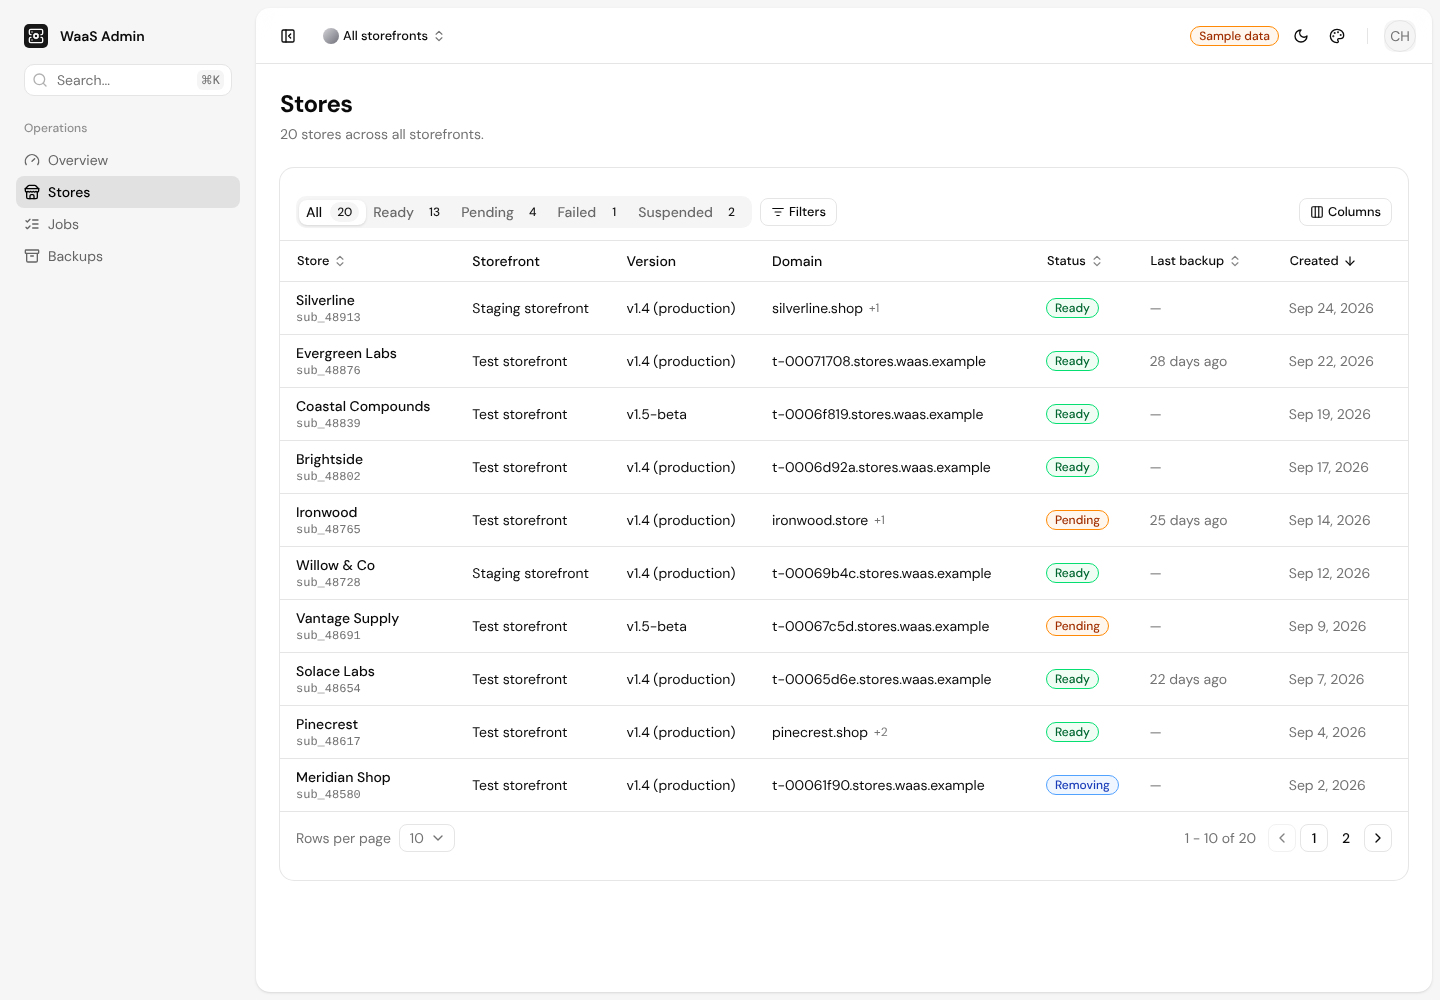
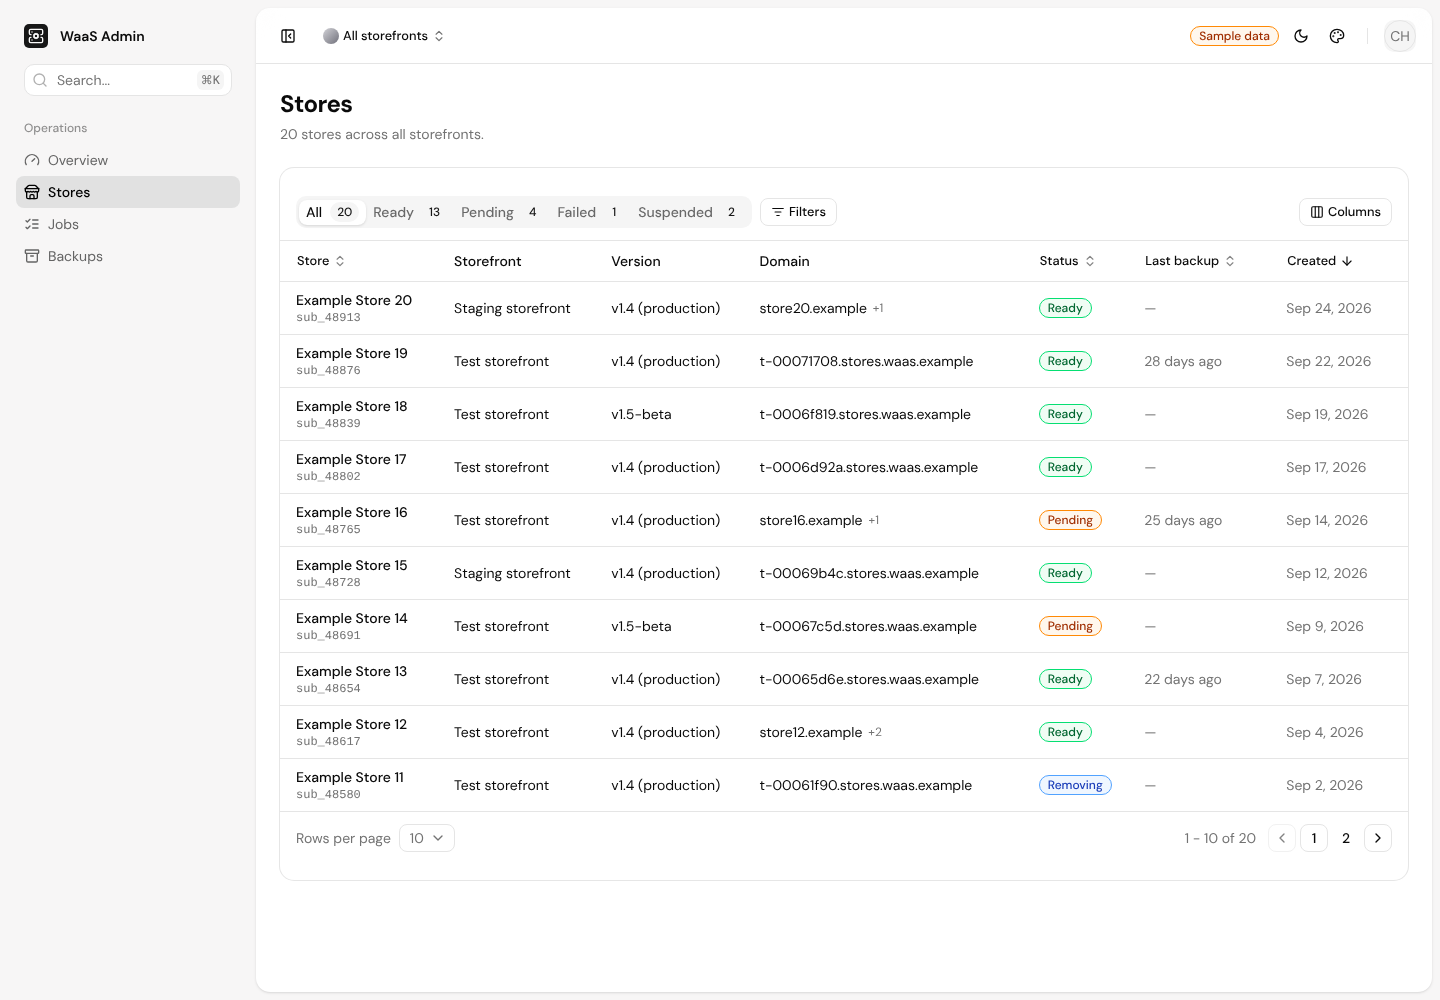
fix: neutral, obviously fictional sample data
Sample stores are "Example Store N" on reserved .example domains, the
template is "Starter template", and no sample name or domain resembles a
real business. Screenshots regenerated.

Claude-Session: https://claude.ai/code/session_01G9RGXizPQxC6Zsvd31FdxY

diff --git a/lib/api/fixtures.ts b/lib/api/fixtures.ts
@@ -45,36 +45,32 @@ const versions = [
   { id: uuid(3, 2), name: "v1.4 (production)", productId: products[1].id }
 ];
 
-const storeNames = [
-  "Northwind Labs", "Blue Harbor Supply", "Cedar Wellness", "Atlas Research", "Lumen Co",
-  "Harbor Point", "Summit Peptides", "Kestrel Bio", "Oakline Health", "Riverstone",
-  "Meridian Shop", "Pinecrest", "Solace Labs", "Vantage Supply", "Willow & Co",
-  "Ironwood", "Brightside", "Coastal Compounds", "Evergreen Labs", "Silverline"
-];
+// Obviously fictional names and reserved .example domains: sample data must never look like a real business.
+const storeNames = Array.from({ length: 20 }, (_, i) => `Example Store ${i + 1}`);
 
 type TenantSeed = { status: StatusCode; suspended?: boolean; custom?: string; extra?: string[] };
 
 const seeds: TenantSeed[] = [
-  { status: StatusCode.Done, custom: "shop.northwindlabs.com", extra: ["northwindlabs.com"] },
+  { status: StatusCode.Done, custom: "shop.store1.example", extra: ["store1.example"] },
   { status: StatusCode.Done },
-  { status: StatusCode.Done, custom: "cedarwellness.co" },
+  { status: StatusCode.Done, custom: "store3.example" },
   { status: StatusCode.Pending },
   { status: StatusCode.Done, suspended: true },
   { status: StatusCode.Failed },
-  { status: StatusCode.Done, custom: "harborpoint.store" },
+  { status: StatusCode.Done, custom: "store7.example" },
   { status: StatusCode.Done },
-  { status: StatusCode.Done, suspended: true, custom: "kestrelbio.com" },
+  { status: StatusCode.Done, suspended: true, custom: "store9.example" },
   { status: StatusCode.Done },
   { status: StatusCode.Removing },
-  { status: StatusCode.Done, custom: "pinecrest.shop", extra: ["www.pinecrest.shop"] },
+  { status: StatusCode.Done, custom: "store12.example", extra: ["www.store12.example"] },
   { status: StatusCode.Done },
   { status: StatusCode.Pending },
   { status: StatusCode.Done },
-  { status: StatusCode.Pending, custom: "ironwood.store" },
+  { status: StatusCode.Pending, custom: "store16.example" },
   { status: StatusCode.Done },
   { status: StatusCode.Done },
   { status: StatusCode.Done },
-  { status: StatusCode.Done, custom: "silverline.shop" }
+  { status: StatusCode.Done, custom: "store20.example" }
 ];
 
 type FixtureTenant = Tenant & {
@@ -138,8 +134,8 @@ tenants.forEach((tenant, i) => {
 });
 // Two backups of stores that have since been deleted, kept for restore until they expire.
 for (const [n, name, deletedDaysAgo] of [
-  [1, "Copperleaf Labs", 12],
-  [2, "Driftwood Supply", 81]
+  [1, "Example Store 21", 12],
+  [2, "Example Store 22", 81]
 ] as const) {
   const deletedAt = NOW - deletedDaysAgo * DAY;
   backups.push({
@@ -202,7 +198,7 @@ const jobs: Job[] = [
     error: "Provisioner: store host did not answer within 600 s (create container)"
   }),
   job(6, "failed", "tenant.domains", tenants[15], 40, {
-    error: "Provisioner: certificate request for ironwood.store rejected: DNS does not point at the store host"
+    error: "Provisioner: certificate request for store16.example rejected: DNS does not point at the store host"
   }),
   job(7, "failed", "tenant.backup", tenants[6], 2880, {
     error: "Provisioner: backup upload to object storage failed (403 AccessDenied)"
@@ -262,7 +258,7 @@ export class FixtureAdminApi implements AdminApi {
     if (!tenant) return null;
     return {
       ...tenant,
-      snapshotName: "Peptide shop starter",
+      snapshotName: "Starter template",
       wpOptionNames: ["blogname", "admin_email", "woocommerce_currency"],
       phpConstantNames: ["WPCS_TENANT_ROLES", "WPCS_PUBLIC_KEY", "WPCS_TENANT_NO_ADMINISTRATOR_PLUGIN_CAPS"],
       backups: backups.filter((b) => b.tenantId === id),
